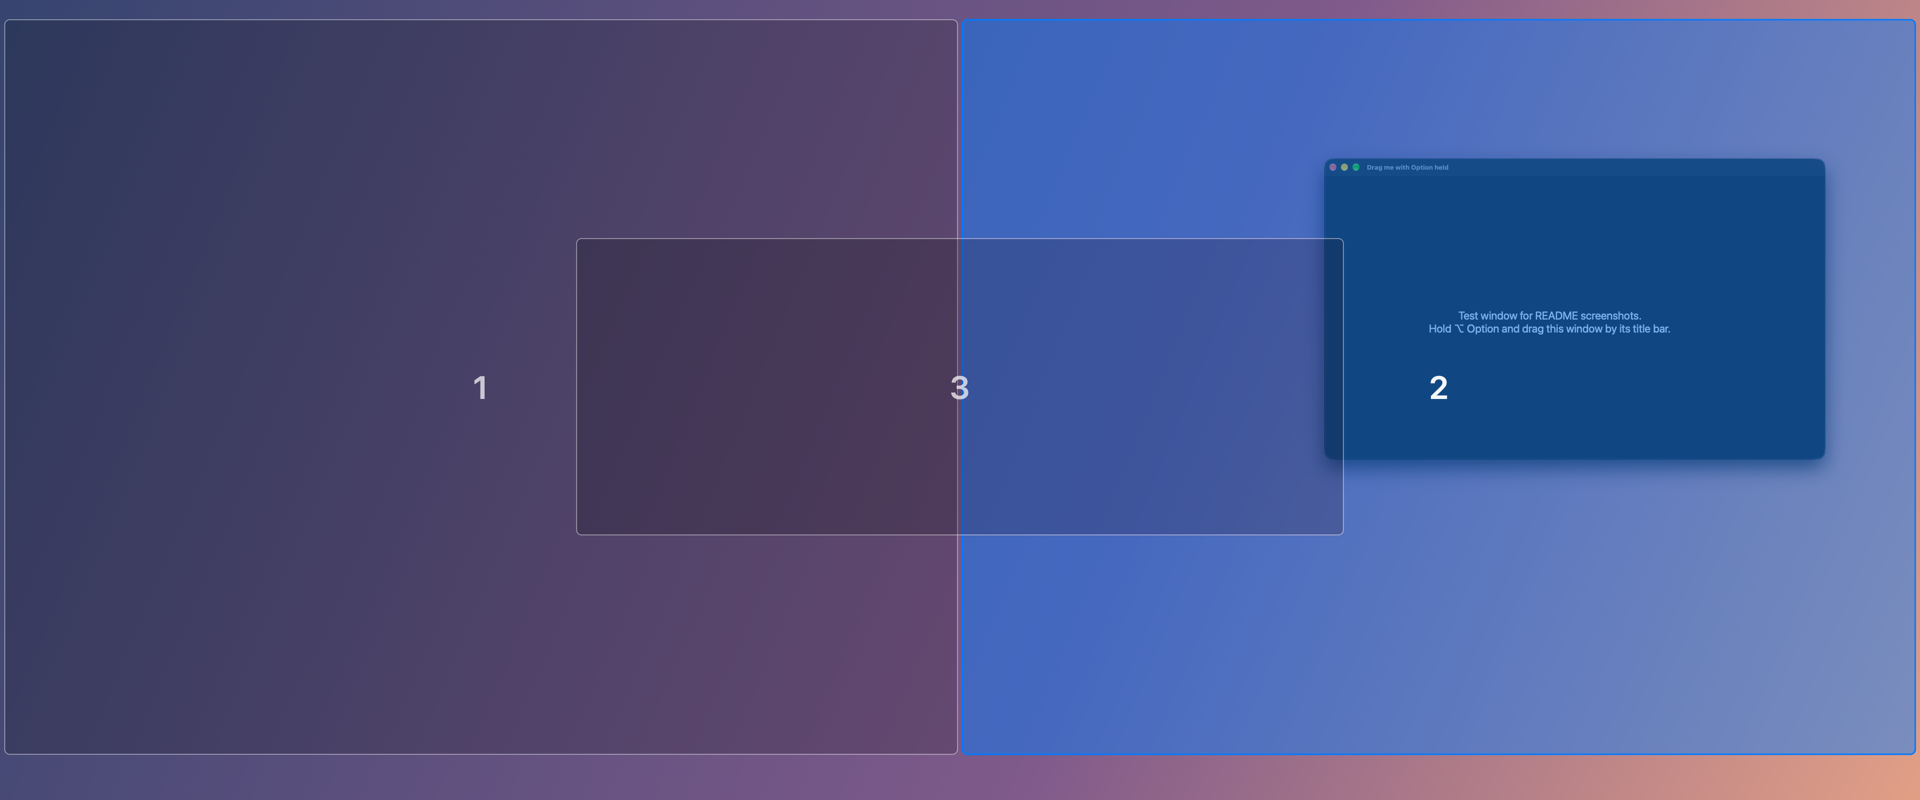
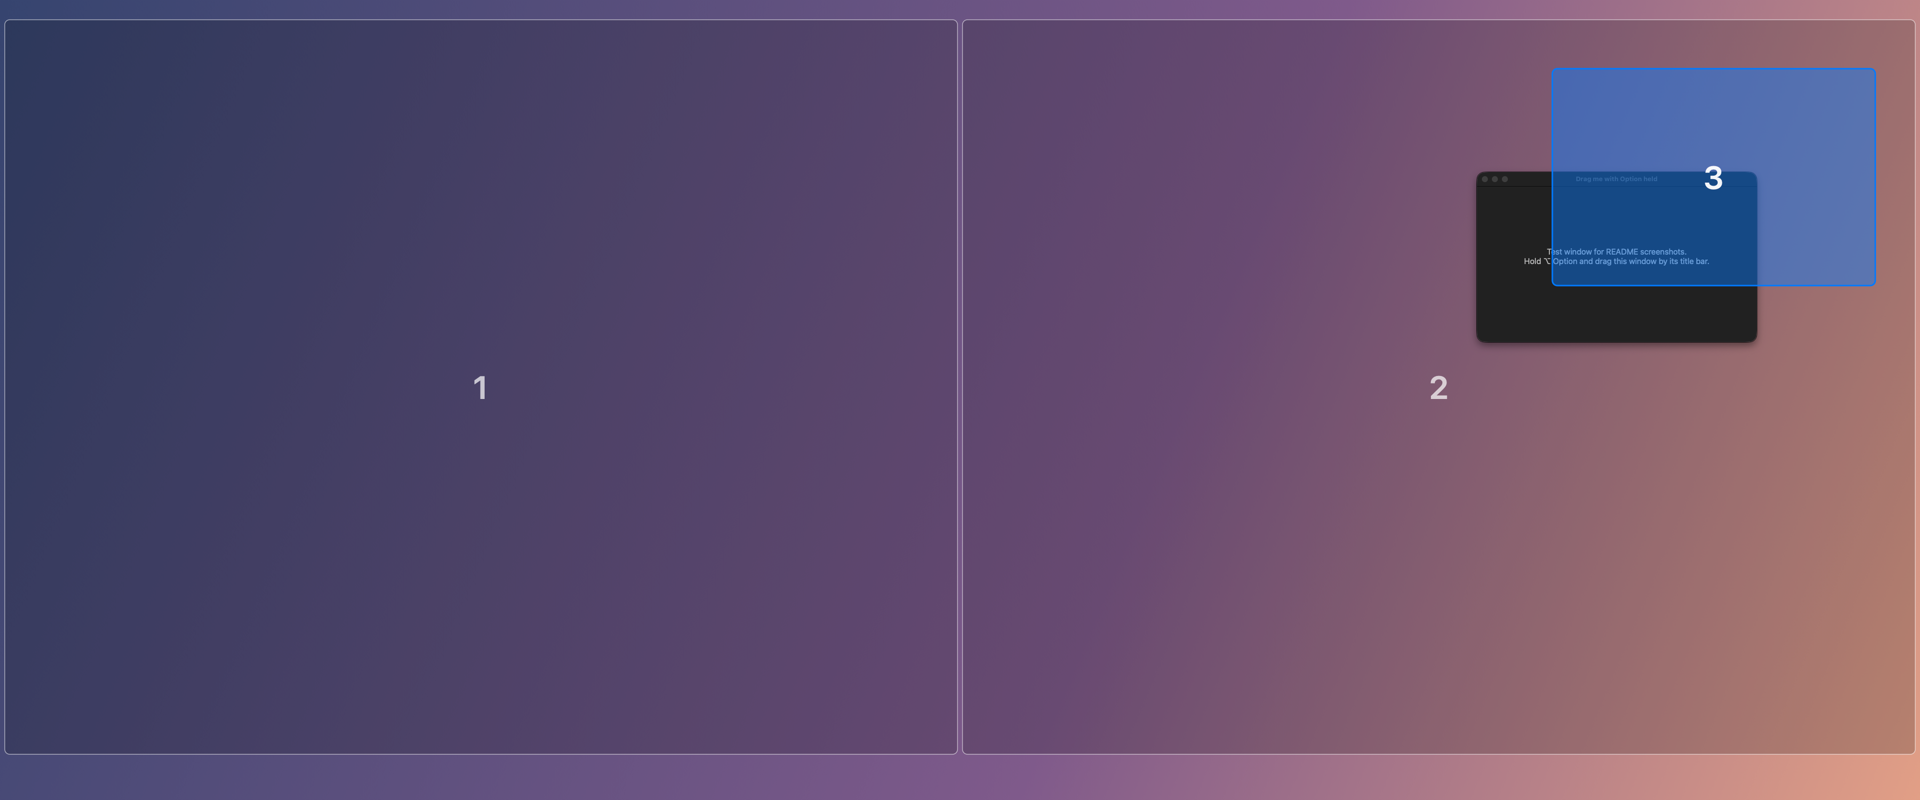
README: show the PIP layout in the zone overlay screenshot

diff --git a/README.md b/README.md
@@ -4,7 +4,7 @@ A menu bar window manager for macOS 14+, written in Swift (SwiftUI + AppKit) wit
 dependencies. Windows snap to screen edges and to each other as you move and resize them, the way
 KWin does, and you can drop them into zone layouts you design yourself, like FancyZones.
 
-![Holding Option while dragging a window shows the display's zones; the highlighted one is where it lands](docs/images/zone-overlay.png)
+![Holding Option while dragging a window shows the display's zones, here a picture-in-picture layout with two columns and a small free zone on top; the highlighted one is where it lands](docs/images/zone-overlay.png)
 
 ## Features
 
